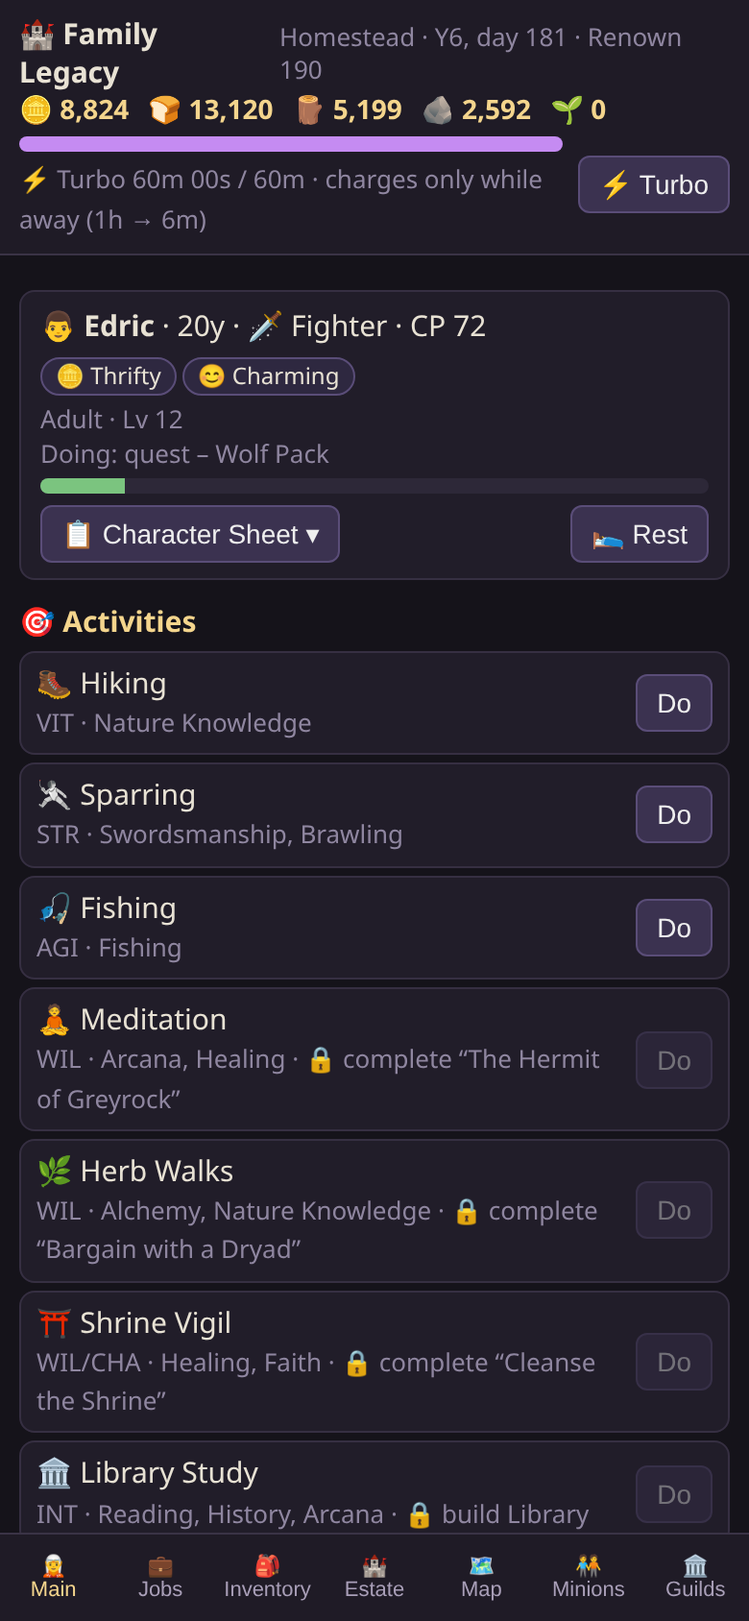
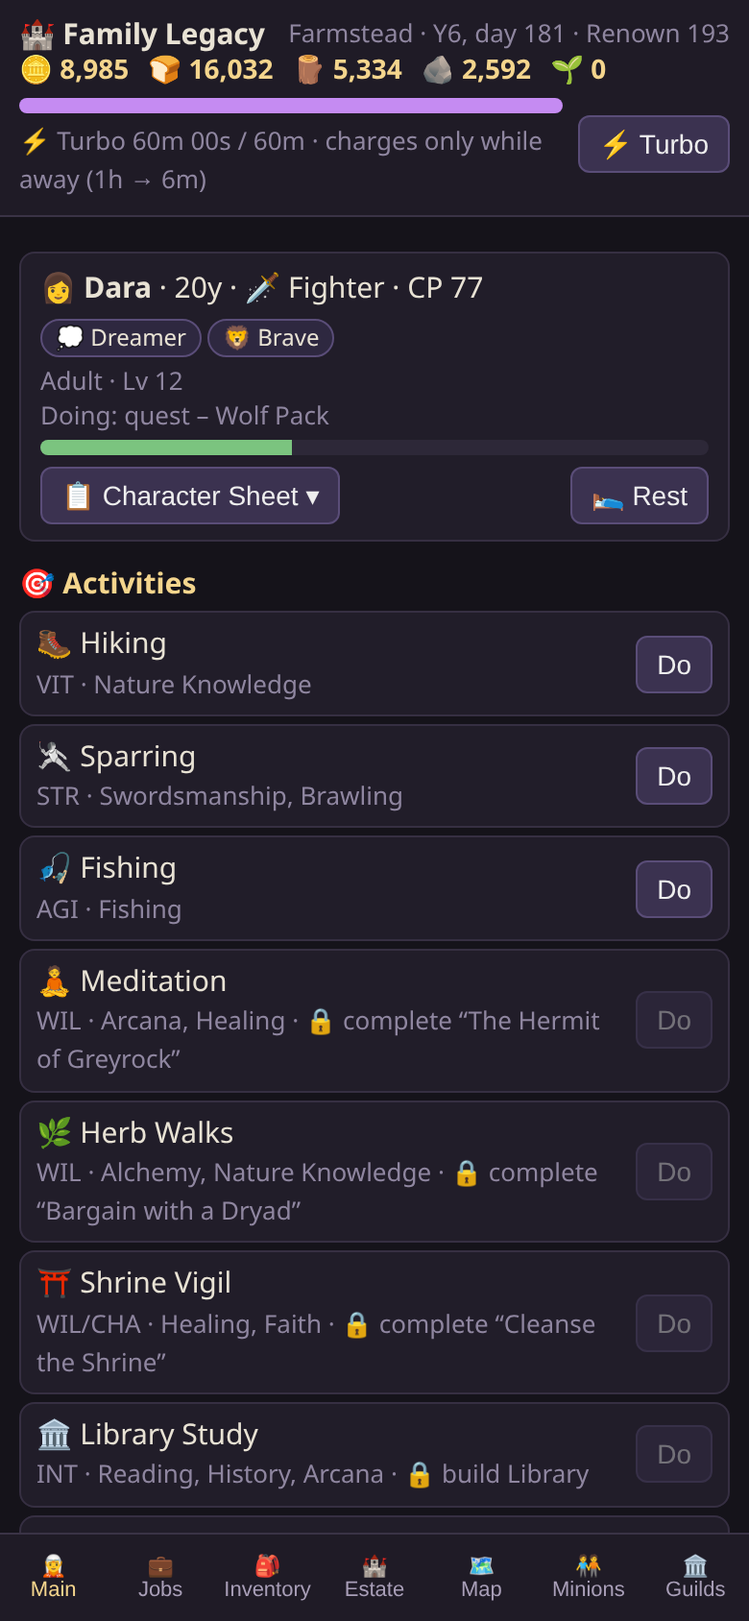
Update Family Legacy with the estate land rework.
Replace the static game with the new build, including data/estate.json, and keep the existing Pages workflow.

Changed region(s): [[0.0, 0.0, 0.9846, 0.955]]

diff --git a/js/main.js b/js/main.js
@@ -1,6 +1,6 @@
 import * as E from './engine.js';
 const KEY='familyLegacy.save.v1';
-const names=['skills','classes','traits','buildings','furniture','items','quests','regions','tuning','nodes','towns','minions','guilds','jobs','activities'];
+const names=['skills','classes','traits','buildings','furniture','items','quests','regions','tuning','nodes','towns','minions','guilds','jobs','activities','estate'];
 const D={}; await Promise.all(names.map(async n=>D[n]=await (await fetch(`data/${n}.json`)).json())); E.setData(D);
 let s, tab='main', sheetOpen=false, report=null;
 const raw=localStorage.getItem(KEY);
@@ -75,8 +75,11 @@ function family(){ const m=E.active(s); let h=`<h3>Members (${E.living(s).length
  return h; }
 const RI={coin:'🪙',wood:'🪵',stone:'🪨',food:'🍞',herbs:'🌱'};
 const costStr=c=>Object.entries(c).map(([k,v])=>`${fmt(v)} ${({coin:'🪙',wood:'🪵',stone:'🪨',food:'🍞'})[k]}`).join(' ');
-function estate(){ let h=`<h3>Buildings</h3>`;
- for(const b of D.buildings){ const lv=s.buildings[b.id]; const c=E.cost(s,b); h+=`<div class="card row"><span>${b.icon} ${b.name} <b>Lv${lv}</b><br><span class="muted">${b.desc}</span></span><button class="b" data-a="build" data-v="${b.id}" ${lv<b.max&&E.afford(s,c)?'':'disabled'}>${lv>=b.max?'Max':costStr(c)}</button></div>`; }
+function landShop(where){ return D.estate.lands.filter(l=>!s.land.includes(l.id)&&(!where||l.towns.includes(where))).map(l=>`<div class="card row" style="padding:6px 8px;margin:4px 0"><span>${l.icon} ${l.name} <span class="muted">+${l.slots} land slots${l.requires&&!s.land.includes(l.requires)?' · needs '+D.estate.lands.find(x=>x.id===l.requires).name:''}${l.desc?' · '+l.desc:''}</span></span><button class="b" data-a="land" data-v="${l.id}" ${E.canBuyLand(s,l.id)?'':'disabled'}>${costStr(l.cost)}</button></div>`).join(''); }
+function estate(){ let h=`<div class="card"><div class="row"><b>🗺 Land</b><span>${E.landUsed(s)}/${E.landSlots(s)} land slots used</span></div><div class="muted">${s.land.map(id=>D.estate.lands.find(l=>l.id===id).name).join(', ')}</div></div>${landShop()}<h3>Buildings</h3>`;
+ for(const b of D.buildings){ const lv=s.buildings[b.id]; const c=E.cost(s,b); const iss=E.buildIssue(s,b); h+=`<div class="card row"><span>${b.icon} ${lv?E.buildingLevelName(b,lv):b.name} <b>Lv${lv}</b><br><span class="muted">${b.land} land slot${b.interiorPerLevel?` · +${b.interiorPerLevel} interior/lv`:''} · ${b.desc}</span></span><button class="b" data-a="build" data-v="${b.id}" ${iss?'disabled':''} title="${iss||''}">${lv>=b.max?'Max':iss&&iss!=='cannot afford'?'🔒 '+iss:costStr(c)}</button></div>`; }
+ h+=`<h3>🚪 Interior rooms (${s.rooms.length}/${E.interiorSlots(s)})</h3>`+(s.rooms.length?s.rooms.map((id,k)=>{const r=E.roomDef(id);return `<div class="row"><span>${r.icon} ${r.name} <span class="muted">${r.kind} · ${r.desc}</span></span><button class="b" data-a="unroom" data-v="${k}">Remove</button></div>`}).join(''):'<div class="muted">No rooms yet.</div>');
+ if(s.rooms.length<E.interiorSlots(s)) h+=`<div class="muted" style="margin-top:6px">Add a room:</div>`+D.estate.rooms.map(r=>`<div class="card row" style="padding:5px 8px;margin:4px 0"><span>${r.icon} ${r.name} <span class="muted">${r.kind} · ${r.desc}</span></span><button class="b" data-a="room" data-v="${r.id}" ${E.canAddRoom(s,r.id)?'':'disabled'}>${costStr(r.cost)}</button></div>`).join('');
  h+=`<div class="muted">Upkeep: ${Object.values(s.buildings).reduce((a,b)=>a+b,0)*D.tuning.upkeepPerBuildingMonth}🪙 per month. Family eats ${E.living(s).length}🍞/day.</div><h3>Furniture (${s.furniture.length}/${E.furnSlots(s)} slots)</h3>`;
  for(const f of D.furniture){ const own=s.furniture.includes(f.id); h+=`<div class="card row"><span>${f.icon} ${f.name}<br><span class="muted">${Object.entries(f.bonus).map(([k,v])=>k+': '+v).join(', ')}</span></span><button class="b" data-a="furn" data-v="${f.id}" ${!own&&E.afford(s,f.cost)&&s.furniture.length<E.furnSlots(s)?'':'disabled'}>${own?'Placed':costStr(f.cost)}</button></div>`; }
  return h; }
@@ -96,6 +99,7 @@ function mainv(){ const m=E.active(s); let h=hero();
  const others=E.living(s).filter(x=>x.id!==m.id); if(others.length) h=`<div class="row"><span class="muted">Playing as:</span><select data-a="pick">${E.living(s).map(x=>`<option value="${x.id}" ${x.id===m.id?'selected':''}>${x.name} (${E.ageY(x)})</option>`).join('')}</select></div>`+h;
  h+=courtship();
  const towns=D.towns.filter(t=>E.regionOpen(s,t.region));
+ h+=`<h3>📜 Land for sale</h3>`+(landShop()||'<div class="muted">You own every parcel.</div>');
  h+=`<h3>🛒 Buy items</h3>`+towns.map(t=>`<div class="muted">${t.icon} ${t.name}</div>`+t.shop.map(id=>{const x=it(id);return `<div class="card row" style="padding:5px 8px;margin:4px 0"><span>${x.name} <span class="muted">${x.rarity} ${x.slot}${x.cp?' +'+x.cp+' CP':''}${x.affinity?' +'+x.affinity+'❤ gift':''}</span></span><button class="b" data-a="buy" data-v="${t.id}" data-w="${id}" ${s.res.coin>=E.buyPrice(x)?'':'disabled'}>${E.buyPrice(x)}🪙</button></div>`}).join('')).join('');
  h+=`<h3>📜 Recent</h3>`+s.log.slice(0,8).map(l=>`<div class="muted">Y${yr(l.d)+1} D${l.d%D.tuning.daysPerYear+1} · ${l.msg}</div>`).join('')+`<h3>Save</h3><div class="row"><button class="b" data-a="export">Export</button><button class="b" data-a="import">Import</button><button class="b" data-a="reset">New Lineage</button></div>`;
  return h; }
@@ -105,7 +109,8 @@ function invv(){ const m=E.active(s); const row=(x,btns)=>`<div class="card row"
  h+=`<h3>🎒 Personal pack</h3>`+(m.bag.length?m.bag.map(id=>row(it(id),`${it(id).slot!=='gift'?`<button class="b" data-a="equipbag" data-v="${id}">Equip</button>`:''}<button class="b" data-a="tovault" data-v="${id}">→ Vault</button>`)).join(''):'<div class="muted">Empty.</div>');
  h+=`<h3>🏛 Family vault (shared)</h3>`+(s.vault.length?s.vault.map(id=>row(it(id),`${it(id).slot!=='gift'?`<button class="b" data-a="equip" data-v="${id}">Equip</button>`:''}<button class="b" data-a="tobag" data-v="${id}">Take</button><button class="b" data-a="sell" data-v="${id}">Sell ${E.sellValue(s,it(id))}</button>`)).join(''):'<div class="muted">Empty. Quests drop loot; towns sell gear.</div>');
  return h; }
-function estatev(){ let h=`<div class="card"><b>🏞 ${E.estateStage(s)}</b><div class="muted">${E.established(s)?'Your holdings are established. Direct idle family members below.':'A small patch of scrub land. Build a House to establish the estate and unlock Standing Orders and furniture.'}</div></div>`;
+function estatev(){ if(!E.hasLand(s)) return `<div class="card"><b>🔒 Landless</b><div class="muted">The family has no land yet. Buy the Starting Plot (2 land slots) here, in Millbrook on the Map, or in the Main shop. Then raise a Shack (1 land slot, 2 rooms) and a Small Garden.</div></div>`+landShop();
+ let h=`<div class="card"><b>🏞 ${E.estateStage(s)}</b><div class="muted">${E.established(s)?'Your holdings are established. Direct idle family members below.':'Scrub land. Build a Shack to establish the estate and unlock rooms, Standing Orders and furniture.'}</div></div>`;
  h+=estate();
  h+=`<h3>👪 Family & Standing Orders (${E.living(s).length}/${E.bedrooms(s)} beds)</h3>`;
  for(const x of E.living(s)){ const o=x.order; h+=`<div class="card">${memberLine(x)} ${x.id===s.head?'👑':''} ${x.id===s.activeId?'<b>(playing)</b>':''}<div class="muted">${x.spouse?'Married to '+(s.members.find(y=>y.id===x.spouse)||{}).name:'Single'} · ${x.id===s.activeId?'':'Doing: '+doing(x.action||(o.type!=='quest'?o:null))}</div>`;
@@ -129,6 +134,7 @@ function mapv(){ const m=E.active(s); let h=E.isAdult(m)?'':`<div class="card mu
  for(const rg of D.regions){ const open=E.regionOpen(s,rg.id); h+=`<h3>${rg.icon} ${rg.name} ${open?'':`🔒 (needs CP ${rg.cp})`}</h3>`; if(!open) continue;
   const hidden=[...D.quests,...D.nodes].filter(x=>x.region===rg.id&&!E.known(s,x)).length;
   for(const t of D.towns.filter(t=>t.region===rg.id)) h+=`<div class="card"><b>${t.icon} ${t.name}</b> <span class="muted">· trade</span><div class="row" style="flex-wrap:wrap;margin-top:4px">${Object.entries(t.prices).map(([k,p])=>`<button class="b" data-a="sellres" data-v="${t.id}" data-w="${k}" ${s.res[k]>=10?'':'disabled'}>Sell 10${RI[k]} → ${p*10}🪙</button>`).join('')}</div>
+   ${landShop(t.id)?'<div class="muted" style="margin-top:4px">📜 LAND FOR SALE</div>'+landShop(t.id):''}
    ${D.guilds.guilds.filter(g=>g.town===t.id).map(g=>guildHall(m,g)).join('')}
    <div class="muted" style="margin-top:4px">⚔ Adventurers' Guild branch here (see Guilds tab)</div>
    <div class="row" style="margin-top:6px"><span class="muted">🗣 Tavern rumors (${hidden} secrets left)</span><button class="b" data-a="rumor" data-v="${rg.id}" ${s.res.coin>=D.tuning.rumorCost&&hidden?'':'disabled'}>Listen ${D.tuning.rumorCost}🪙</button></div></div>`;
@@ -142,7 +148,7 @@ function minionsv(){ const M=D.minions; const mt=id=>M.types.find(t=>t.id===id);
  if(!s.minions.length) h+=`<div class="muted">No followers yet.</div>`;
  for(const mi of s.minions){ const t=mt(mi.type); h+=`<div class="card" ${mi.special?'style="border-color:#d9b44a"':''}><div class="row"><span>${t.icon} <b>${mi.name}</b>${mi.special?' <span class="tb" style="border-color:#d9b44a">⭐ Special</span>':' · '+t.name}</span><span class="muted">❤ ${Math.round(mi.loyalty)} · ${t.wage}🪙/mo</span></div>
   ${mi.special?`<div class="muted">⭐ ${E.sourceLabel(t)}${t.source.quest?'':' ('+mi.source+')'} · ${t.desc}</div>`:''}<div class="muted">Good at: ${Object.entries(t.apt).map(([j,v])=>M.jobs.find(x=>x.id===j).name+' ×'+v).join(', ')}</div>
-  <div class="row" style="margin-top:4px"><select data-a="mjob" data-v="${mi.uid}">${M.jobs.map(j=>`<option value="${j.id}" ${mi.job===j.id?'selected':''} ${E.jobOpen(s,j.id)?'':'disabled'}>${j.icon} ${j.name}${E.jobOpen(s,j.id)?'':' 🔒'}</option>`).join('')}</select><button class="b" data-a="dismiss" data-v="${mi.uid}">Dismiss</button></div></div>`; }
+  <div class="row" style="margin-top:4px"><select data-a="mjob" data-v="${mi.uid}">${M.jobs.map(j=>`<option value="${j.id}" ${mi.job===j.id?'selected':''} ${E.jobOpen(s,j.id)?'':'disabled'}>${j.icon} ${j.name}${j.id==='idle'||j.id==='guard'?'':' '+E.jobUsed(s,j.id)+'/'+E.jobCap(s,j.id)}${E.jobOpen(s,j.id)?'':' 🔒'}</option>`).join('')}</select><button class="b" data-a="dismiss" data-v="${mi.uid}">Dismiss</button></div></div>`; }
  const locked=M.types.filter(t=>t.special&&!s.specialGranted.includes(t.id)); h+=`<h3>⭐ Special followers to unlock (${locked.length})</h3>`+locked.map(t=>`<div class="muted">${t.icon} ${t.name} — ${E.sourceLabel(t)}</div>`).join('');
  h+=`<h3>Jobs</h3>`+M.jobs.filter(j=>j.id!=='idle').map(j=>`<div class="muted">${j.icon} ${j.name}${j.needs?` (needs ${D.buildings.find(b=>b.id===j.needs).name})`:''}: ${j.desc} · assigned ${s.minions.filter(x=>x.job===j.id).length}</div>`).join('');
  h+=`<h3>Hire</h3>`;
@@ -174,7 +180,7 @@ document.addEventListener('click',e=>{ const t=e.target.closest('[data-tab]'); i
  const b=e.target.closest('button[data-a]'); if(!b) return; const a=b.dataset.a, v=b.dataset.v, m=E.active(s);
  ({turbo:()=>E.toggleTurbo(s),train:()=>E.setAction(s,{type:'train',target:v}),sheet:()=>{sheetOpen=!sheetOpen},job:()=>E.setAction(s,{type:'job',target:v}),activity:()=>E.setAction(s,{type:'activity',target:v}),rest:()=>E.setAction(s,{type:'rest'}),
   quest:()=>{E.setAction(s,{type:'quest',target:v});},court:()=>E.setAction(s,{type:'court',target:v}),gift:()=>E.giveGift(s,v,b.dataset.w),propose:()=>E.propose(s,v),
-  evolve:()=>E.evolve(s,m,v),build:()=>E.build(s,v),furn:()=>E.buyFurniture(s,v),equip:()=>E.equip(s,m,v),equipbag:()=>E.equip(s,m,v,'bag'),unequip:()=>E.unequip(s,m,v),tobag:()=>E.moveItem(s,m,v,true),tovault:()=>E.moveItem(s,m,v,false),buy:()=>E.buyItem(s,v,b.dataset.w),sellres:()=>E.sellRes(s,v,b.dataset.w,10),rumor:()=>E.rumor(s,v),advjoin:()=>E.joinAdventurers(s,m),advrank:()=>E.advRankUp(s,m),advbuy:()=>E.buyAdvItem(s,m,v),join:()=>E.joinGuild(s,m,v),rankup:()=>E.rankUp(s,m),gbuy:()=>E.buyGuildItem(s,m,v),hire:()=>E.hire(s,v,b.dataset.w),dismiss:()=>E.dismiss(s,v),gather:()=>E.setAction(s,{type:'gather',target:v}),sell:()=>E.sell(s,v),switch:()=>E.switchTo(s,+v),
+  evolve:()=>E.evolve(s,m,v),build:()=>E.build(s,v),furn:()=>E.buyFurniture(s,v),equip:()=>E.equip(s,m,v),equipbag:()=>E.equip(s,m,v,'bag'),unequip:()=>E.unequip(s,m,v),tobag:()=>E.moveItem(s,m,v,true),tovault:()=>E.moveItem(s,m,v,false),buy:()=>E.buyItem(s,v,b.dataset.w),sellres:()=>E.sellRes(s,v,b.dataset.w,10),rumor:()=>E.rumor(s,v),land:()=>E.buyLand(s,v),room:()=>E.addRoom(s,v),unroom:()=>E.removeRoom(s,+v),advjoin:()=>E.joinAdventurers(s,m),advrank:()=>E.advRankUp(s,m),advbuy:()=>E.buyAdvItem(s,m,v),join:()=>E.joinGuild(s,m,v),rankup:()=>E.rankUp(s,m),gbuy:()=>E.buyGuildItem(s,m,v),hire:()=>E.hire(s,v,b.dataset.w),dismiss:()=>E.dismiss(s,v),gather:()=>E.setAction(s,{type:'gather',target:v}),sell:()=>E.sell(s,v),switch:()=>E.switchTo(s,+v),
   class:()=>E.chooseClass(s,s.pendingClass[0],v),close:()=>{report=null},
   export:()=>{prompt('Copy your save:',btoa(unescape(encodeURIComponent(E.serialize(s)))));},
   import:()=>{const t=prompt('Paste save:'); if(t){try{s=E.deserialize(decodeURIComponent(escape(atob(t))));}catch(err){alert('Invalid save');}}},

diff --git a/js/engine.js b/js/engine.js
@@ -28,7 +28,7 @@ export function pickTraits(n,have=[]){ const out=[...have]; const pool=[...D.tra
 export const traitSum=(m,k)=>m.traits.reduce((a,t)=>a+((traitDef(t)||{})[k]||0),0);
 export function fixTraits(m){ const kept=[]; let changed=false; for(const t of m.traits){ if(!traitDef(t)||kept.some(k=>conflicts(k,t))){ changed=true; m.lifespan-=((traitDef(t)||{}).life||0); } else kept.push(t); }
   if(!changed) return false; m.traits=pickTraits(2,kept); for(const t of m.traits.slice(kept.length)) m.lifespan+=(traitDef(t).life||0); return true; }
-export function newGame(now=Date.now()){ const _s=_newGame(now); normalize(_s); return _s; }
+export function newGame(now=Date.now()){ const _s=_newGame(now); _s.land=[]; _s.rooms=[]; normalize(_s); return _s; }
 function _newGame(now){
   const s={v:SAVE_VERSION,day:0,nextId:1,members:[],activeId:1,head:1,
     res:{coin:50,food:60,wood:0,stone:0,herbs:0},revealed:[],buildings:{},furniture:[],vault:['rusty_sword','padded_vest'],
@@ -64,7 +64,7 @@ export function cp(s,m){
 export function softCap(m){const c=cls(m);return T.softCap[c?c.tier:0];}
 function xpMult(s,m,skillId){
   const sk=D.skills.find(x=>x.id===skillId); let mult=1;
-  mult+=traitSum(m,'xp');
+  mult+=traitSum(m,'xp'); mult+=rooms(s).filter(r=>r.xpFamily===sk.family).length*0.03;
   if(['lore','magic'].includes(sk.family)) mult+=m.skills.reading.lvl*0.01 + bl(s,'library')*0.02;
   for(const f of furn(s)){ if(f.bonus.skill===skillId) mult+=f.bonus.xp; if(f.bonus.family===sk.family) mult+=f.bonus.xp; }
   if(ageY(m)>=50) mult+=.1;
@@ -85,10 +85,26 @@ export function gainXp(s,m,skillId,amt){
 export const idleEff=s=>T.idleEff+bl(s,'yard')*0.05;
 export const turboCapSec=s=>(T.turboCapMin+bl(s,'hourglass')*30)*60;
 export const offlineCapSec=s=>(T.offlineCapHours+bl(s,'hourglass')*2)*3600;
-export const bedrooms=s=>1+bl(s,'house')*2;
-export const established=s=>bl(s,'house')>=1;
-const STAGES=[[0,'Scrub Land'],[1,'Homestead'],[4,'Farmstead'],[9,'Manor'],[16,'Prosperous Estate']];
-export function estateStage(s){const t=Object.values(s.buildings).reduce((a,b)=>a+b,0);let n=STAGES[0][1];for(const[k,v]of STAGES)if(t>=k)n=v;return n;}
+const ES=()=>D.estate;
+export const roomDef=id=>ES().rooms.find(r=>r.id===id);
+const rooms=s=>(s.rooms||[]).map(roomDef).filter(Boolean);
+export const bedrooms=s=>1+rooms(s).reduce((a,r)=>a+(r.beds||0),0);
+export const hasLand=s=>(s.land||[]).length>0;
+export const established=s=>hasLand(s)&&bl(s,'house')>=1;
+export const landSlots=s=>(s.land||[]).reduce((a,id)=>a+ES().lands.find(l=>l.id===id).slots,0);
+export const landUsed=s=>D.buildings.reduce((a,b)=>a+(bl(s,b.id)>0?b.land:0),0);
+export const interiorSlots=s=>D.buildings.reduce((a,b)=>a+bl(s,b.id)*(b.interiorPerLevel||0),0);
+export const buildingLevelName=(b,lv)=>b.levelNames?b.levelNames[Math.max(0,lv-1)]:b.name;
+export function canBuyLand(s,id){ const l=ES().lands.find(x=>x.id===id); return !!l&&!(s.land||[]).includes(id)&&(!l.requires||s.land.includes(l.requires))&&afford(s,l.cost); }
+export function buyLand(s,id){ if(!canBuyLand(s,id)) return false; const l=ES().lands.find(x=>x.id===id); pay(s,l.cost); s.land.push(id); log(s,`📜 Bought ${l.name} (+${l.slots} land slots).`); s.deeds.push(`Bought ${l.name}.`); return true; }
+export function canAddRoom(s,id){ const r=roomDef(id); if(!r||!established(s)||s.rooms.length>=interiorSlots(s)||!afford(s,r.cost)) return false;
+  if(!s.rooms.includes('living')&&id!=='living') return false; // first Shack room must be a living space
+  return true; }
+export function addRoom(s,id){ if(!canAddRoom(s,id)) return false; const r=roomDef(id); pay(s,r.cost); s.rooms.push(id); log(s,`🚪 Added a ${r.name}.`); return true; }
+export function removeRoom(s,i){ if(i<0||i>=s.rooms.length) return false; if(s.rooms[i]==='living'&&s.rooms.filter(x=>x==='living').length===1) return false; s.rooms.splice(i,1); return true; }
+export function jobCap(s,job){ if(job==='idle'||job==='guard') return Infinity; let c=rooms(s).reduce((a,r)=>a+((r.jobs||{})[job]||0),0);
+  if(job==='farm') c+=bl(s,'farm')*2+bl(s,'garden'); if(job==='gather') c+=bl(s,'lumber')*2; if(job==='tutor') c+=bl(s,'library'); return c; }
+export function estateStage(s){ if(!hasLand(s)) return 'Landless'; const t=Object.values(s.buildings).reduce((a,b)=>a+b,0)+s.rooms.length; const STAGES=ES().stages; let n=STAGES[0][1];for(const[k,v]of STAGES)if(t>=k)n=v;return n;}
 export const known=(s,x)=>!x.hidden||s.revealed.includes(x.id);
 export function successChance(s,m,q){const c=cp(s,m);return Math.max(.1,Math.min(.98,0.5+(c-q.cp)/(q.cp+20)+Math.min(.15,minionPower(s,'guard')*.03)));}
 
@@ -153,7 +169,7 @@ function dayTick(s,effActive,effIdle){
   s.day++;
   // estate production & food
   const lv=s.buildings;
-  s.res.food+=lv.farm*5+furn(s).reduce((x,f)=>x+(f.bonus.food||0),0);
+  s.res.food+=lv.farm*5+(lv.garden||0)*2+furn(s).reduce((x,f)=>x+(f.bonus.food||0),0);
   s.res.wood+=lv.lumber*3; s.res.stone+=lv.lumber*1;
   s.res.food-=living(s).length; if(s.res.food<0) s.res.food=0;
   if(s.day%30===0){ const up=Object.values(lv).reduce((a,b)=>a+b,0)*T.upkeepPerBuildingMonth; s.res.coin=Math.max(0,s.res.coin-up); s.renown+=furn(s).reduce((x,f)=>x+(f.bonus.renown||0),0)*30; }
@@ -169,7 +185,7 @@ function dayTick(s,effActive,effIdle){
     }
     if(a>=m.lifespan && rng()<(0.002*(a-m.lifespan+1))){ kill(s,m,'died of old age'); if(s.gameOver) return; continue; }
     if(a<T.adultAge && !(m.id===s.activeId&&actionAllowed(s,m,m.action))){ // child passive xp
-      const f=1+furn(s).reduce((x,f)=>x+(f.bonus.childxp||0),0); gainXp(s,m,r(D.skills).id,T.xpPerDay*.15*f); continue; }
+      const f=1+furn(s).reduce((x,f)=>x+(f.bonus.childxp||0),0)+rooms(s).reduce((x,r)=>x+(r.childxp||0),0); gainXp(s,m,r(D.skills).id,T.xpPerDay*.15*f); continue; }
     const isAct=m.id===s.activeId; const eff=isAct?effActive:effIdle;
     if(m.injured>0){ m.injured=hasService(s,'healer')?0:Math.max(0,m.injured-1); continue; }
     if(isAct) doAction(s,m,m.action,eff);
@@ -206,8 +222,9 @@ export function giveGift(s,suitorId,itemId){ const i=s.vault.indexOf(itemId); co
 export function cost(s,b){ const lv=s.buildings[b.id]; return Object.fromEntries(Object.entries(b.cost).map(([k,v])=>[k,Math.round(v*Math.pow(T.buildCostMult,lv))])); }
 export const afford=(s,c)=>Object.entries(c).every(([k,v])=>s.res[k]>=v);
 const pay=(s,c)=>{for(const[k,v]of Object.entries(c)) s.res[k]-=v;};
-export function build(s,id){ const b=D.buildings.find(x=>x.id===id); if(s.buildings[id]>=b.max) return false; const c=cost(s,b); if(!afford(s,c)) return false; pay(s,c); s.buildings[id]++; log(s,`🏗 ${b.name} upgraded to Lv${s.buildings[id]}.`); return true; }
-export const furnSlots=s=>established(s)?2+bl(s,'house')*2+(hasService(s,'storage')?3:0):0;
+export function buildIssue(s,b){ if(!hasLand(s)) return 'buy land first'; if(s.buildings[b.id]>=b.max) return 'max level'; if(b.id!=='house'&&!established(s)) return 'build a Shack first'; if(!s.buildings[b.id]&&landUsed(s)+b.land>landSlots(s)) return 'no free land slot'; if(!afford(s,cost(s,b))) return 'cannot afford'; return null; }
+export function build(s,id){ const b=D.buildings.find(x=>x.id===id); if(buildIssue(s,b)) return false; const c=cost(s,b); if(!afford(s,c)) return false; pay(s,c); s.buildings[id]++; log(s,`🏗 ${buildingLevelName(b,s.buildings[id])} ${s.buildings[id]>1?'upgraded to Lv'+s.buildings[id]:'built'}.`); if(id==='house'&&s.buildings.house===1&&!s.rooms.length){ s.rooms.push('living'); log(s,'🛏 The Shack has a living space; choose its second room.'); } return true; }
+export const furnSlots=s=>established(s)?s.rooms.length*ES().furniturePerRoom+(hasService(s,'storage')?3:0):0;
 export function buyFurniture(s,id){ const f=D.furniture.find(x=>x.id===id); if(s.furniture.includes(id)||s.furniture.length>=furnSlots(s)||!afford(s,f.cost)) return false; pay(s,f.cost); s.furniture.push(id); log(s,`🪑 Placed ${f.name}.`); return true; }
 export function equip(s,m,itemId,from='vault'){ const src=from==='bag'?m.bag:s.vault; const i=src.indexOf(itemId); const it=D.items.find(x=>x.id===itemId); if(i<0||it.slot==='gift') return false; src.splice(i,1); if(m.equip[it.slot]) m.bag.push(m.equip[it.slot]); m.equip[it.slot]=itemId; return true; }
 export const sellValue=(s,it)=>Math.round(it.value*(hasService(s,'appraisal')?1:.5));
@@ -261,8 +278,9 @@ export function addMinion(s,type,why){ if(!mtype(type).special&&!minionRoom(s)) 
   s.minions.push(mi); log(s,`🤝 ${mi.name} the ${t.name} joined (${why}).`); return mi; }
 export const hireable=(s,townId)=>(D.minions.hireAt[townId]||[]).map(mtype);
 export function hire(s,townId,type){ const t=mtype(type); if(!(D.minions.hireAt[townId]||[]).includes(type)||s.res.coin<t.hire||!minionRoom(s)) return null; s.res.coin-=t.hire; return addMinion(s,type,'hired in town'); }
-export function jobOpen(s,jobId){ const j=D.minions.jobs.find(x=>x.id===jobId); return j&&(!j.needs||bl(s,j.needs)>0)&&(jobId==='idle'||established(s)); }
-export function assignMinion(s,uid,job){ const mi=s.minions.find(x=>x.uid===uid); if(!mi||!jobOpen(s,job)) return false; mi.job=job; return true; }
+export function jobOpen(s,jobId){ const j=D.minions.jobs.find(x=>x.id===jobId); return !!j&&(jobId==='idle'||(established(s)&&jobCap(s,jobId)>0)); }
+export const jobUsed=(s,job,except)=>s.minions.filter(x=>x.job===job&&x.uid!==except).length;
+export function assignMinion(s,uid,job){ const mi=s.minions.find(x=>x.uid===uid); if(!mi||!jobOpen(s,job)||jobUsed(s,job,uid)>=jobCap(s,job)) return false; mi.job=job; return true; }
 export function dismiss(s,uid){ const i=s.minions.findIndex(x=>x.uid===uid); if(i<0) return false; log(s,`👋 ${s.minions[i].name} was dismissed.`); s.minions.splice(i,1); return true; }
 export const monthlyWages=s=>s.minions.reduce((a,x)=>a+mtype(x.type).wage,0);
 function minionDay(s){
@@ -281,7 +299,12 @@ function minionDay(s){
 }
 
 // ---- guilds
-export function normalize(s){ if(!s.unlocks) s.unlocks=[]; if(!s.doneQuests) s.doneQuests=[]; if(!s.specialGranted) s.specialGranted=[]; for(const m of s.members){ if(fixTraits(m)) log(s,`🔧 ${m.name}'s conflicting traits were resolved: ${m.traits.map(t=>traitDef(t).name).join(', ')}.`); for(const sk of D.skills) if(!m.skills[sk.id]) m.skills[sk.id]={lvl:0,xp:0}; if(m.guild===undefined) m.guild=null; if(m.guild&&!guildDef(m.guild.id)) m.guild=null; const okI=id=>D.items.some(i=>i.id===id); m.bag=(m.bag||[]).filter(okI); for(const k in m.equip) if(!okI(m.equip[k])) delete m.equip[k]; if(m.adv===undefined) m.adv=null; if(!m.bag) m.bag=[]; } s.vault=s.vault.filter(id=>D.items.some(i=>i.id===id)); if(!s.minions){s.minions=[];s.repLevel=0;} s._norm=true; }
+export function normalize(s){ if(!s.unlocks) s.unlocks=[];
+  for(const b of D.buildings) if(s.buildings[b.id]===undefined) s.buildings[b.id]=0;
+  if(!s.land){ s.land=[]; s.rooms=[]; // migrate pre-land saves
+    if(D.buildings.some(b=>bl(s,b.id)>0)){ for(const l of ES().lands){ if(landSlots(s)>=landUsed(s)&&s.land.length) break; s.land.push(l.id); }
+      if(bl(s,'house')>0){ const need=Math.max(1,Math.ceil((s.members.filter(m=>m.alive).length-1)/2)); const cap=interiorSlots(s); for(let i=0;i<need&&s.rooms.length<cap;i++) s.rooms.push('living'); const fill=['workshop','post','study']; let k=0; while(s.rooms.length<cap&&k<fill.length) s.rooms.push(fill[k++]); }
+      log(s,`📜 Your existing holdings were deeded: ${s.land.length} land parcel(s), ${s.rooms.length} rooms.`); } } if(!s.doneQuests) s.doneQuests=[]; if(!s.specialGranted) s.specialGranted=[]; for(const m of s.members){ if(fixTraits(m)) log(s,`🔧 ${m.name}'s conflicting traits were resolved: ${m.traits.map(t=>traitDef(t).name).join(', ')}.`); for(const sk of D.skills) if(!m.skills[sk.id]) m.skills[sk.id]={lvl:0,xp:0}; if(m.guild===undefined) m.guild=null; if(m.guild&&!guildDef(m.guild.id)) m.guild=null; const okI=id=>D.items.some(i=>i.id===id); m.bag=(m.bag||[]).filter(okI); for(const k in m.equip) if(!okI(m.equip[k])) delete m.equip[k]; if(m.adv===undefined) m.adv=null; if(!m.bag) m.bag=[]; } s.vault=s.vault.filter(id=>D.items.some(i=>i.id===id)); if(!s.minions){s.minions=[];s.repLevel=0;} s._norm=true; }
 export const guildDef=id=>D.guilds.guilds.find(g=>g.id===id);
 export const rankName=r=>D.guilds.ranks[r].name;
 export function trainIssue(m,skillId,s){ const sk=D.skills.find(x=>x.id===skillId); if(!sk) return 'unknown'; const a=ageY(m);

diff --git a/README.md b/README.md
@@ -5,3 +5,4 @@ Tests: `node test/engine.test.mjs` · UI smoke: `test/ui-smoke.mjs` (Playwright 
 Content: data/*.json (seeded by gen-data.mjs; hand edits to the JSON are now authoritative).
 
 Round 5: trait badges (opposed pairs never co-roll; saves migrated), Jobs tab (8 apprentice/adult jobs), Activities (10; age/quest/building-gated), character sheet on Main, Estate/Minions/Guilds tabs hidden until the active member is 18, 7 quests that unlock trainings/activities, 15 special minions (class/guild-rank/quest).
+Round 6: land system (data/estate.json) — estate locked until land is bought (Map towns / Main / Estate); buildings use land slots; Shack→Manor interior rooms (living/workshop/resource post/study/nursery/shrine); furniture & minion job spots come from rooms/buildings; old saves get deeded land + rooms.
